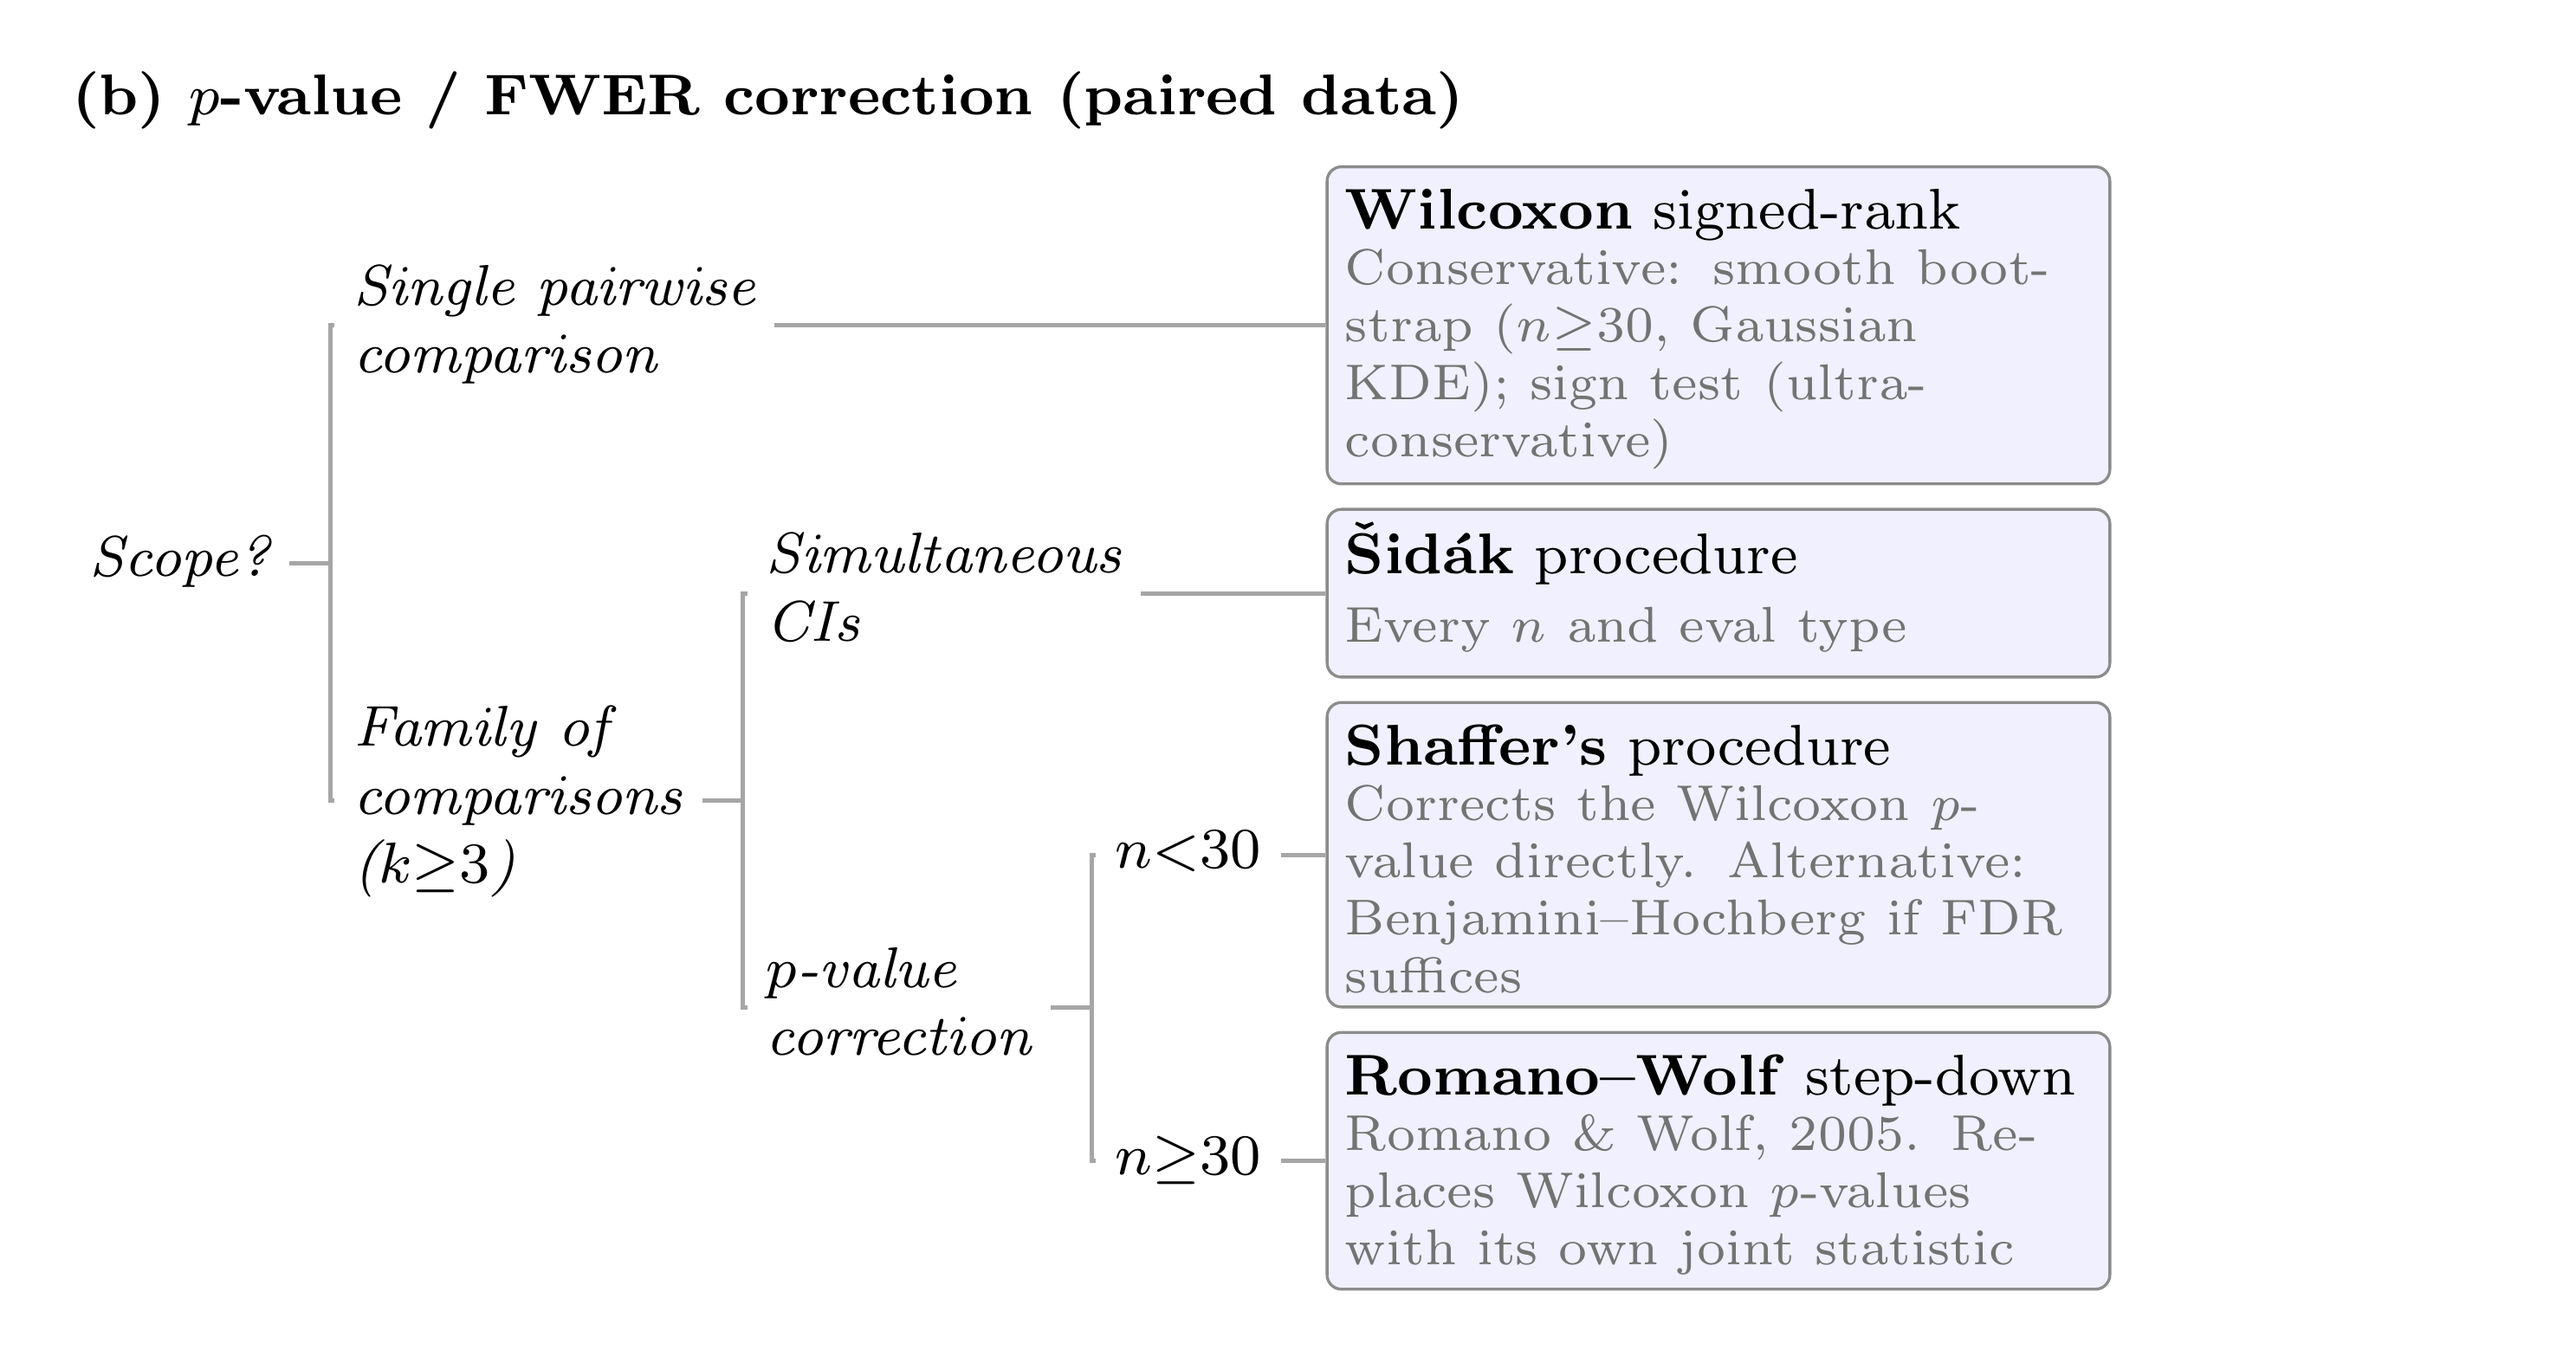
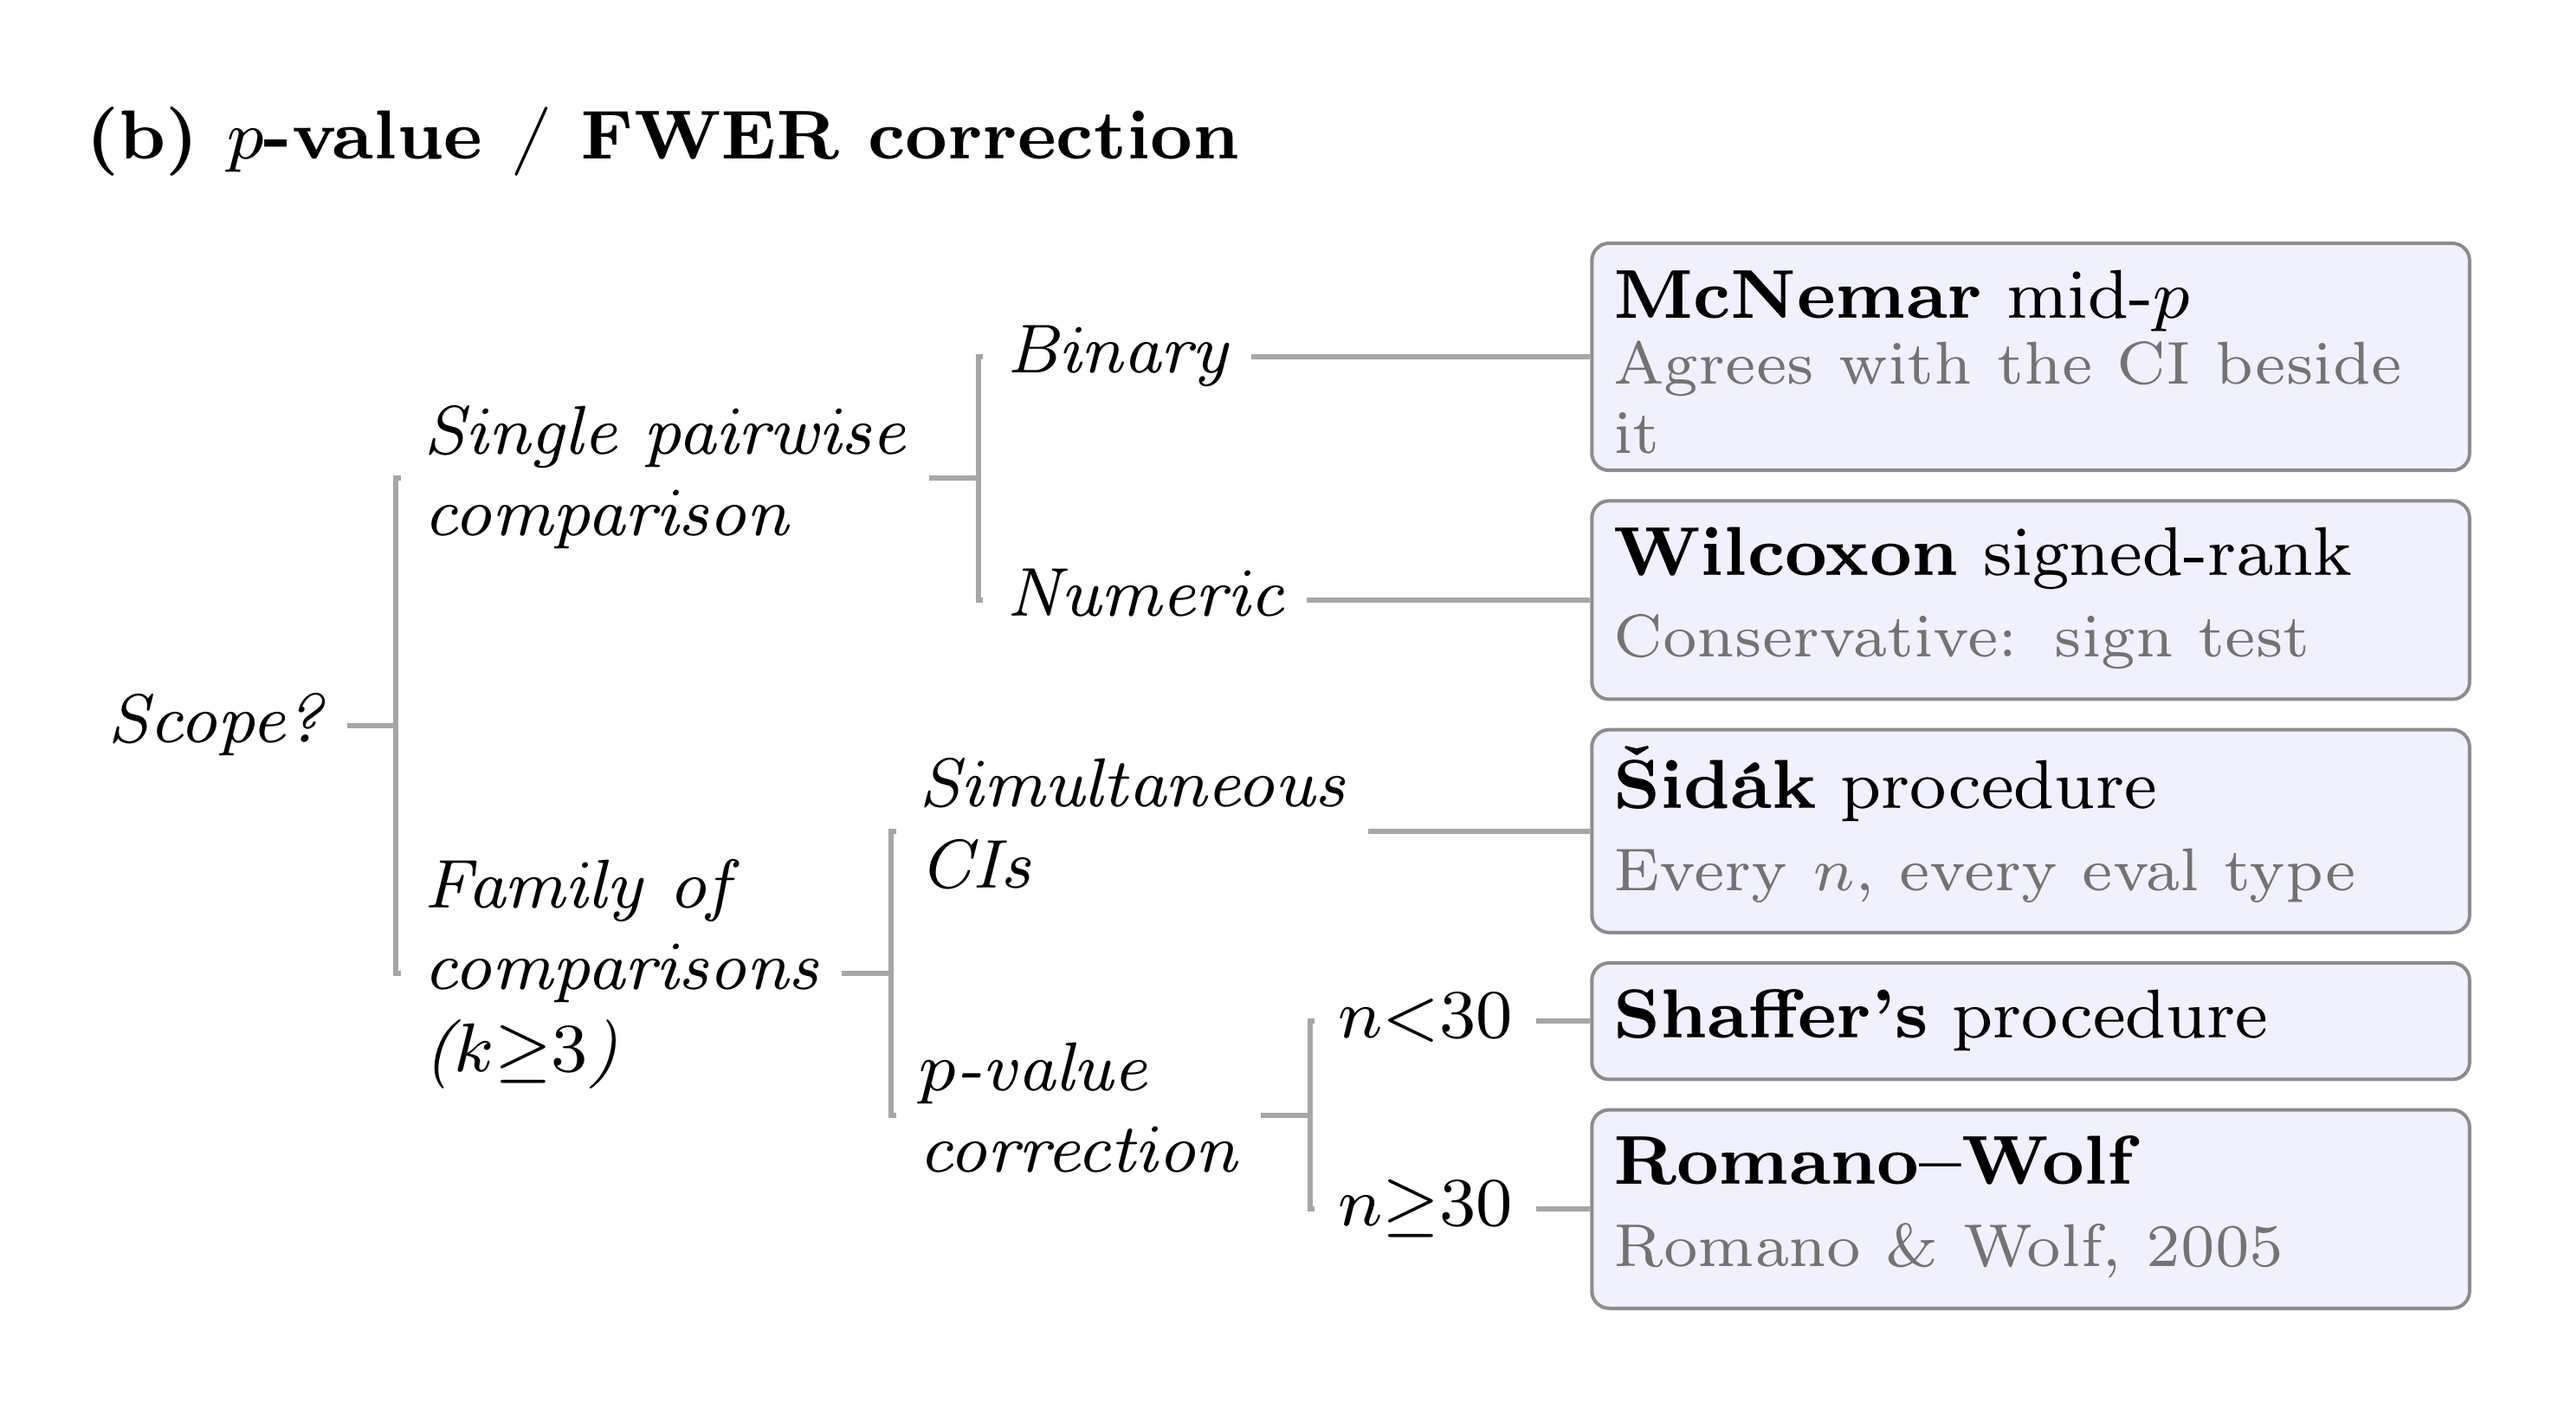
Match the README and website decision trees to the paper; bump to 0.4.0
- docs/decision-tree-{ci,pvalue}.png are re-rendered from the paper's own
  forest trees by the new docs/make_decision_trees.py, dropping the stale
  multi-run notes and alternatives the paper no longer lists.
- website/src/which-method.html carries the same leaves: McNemar mid-p for a
  single binary comparison, Wilcoxon (conservative: sign test) for numeric,
  and the paper's conservative-alternative notes and citations.
- Version 0.4.0: compare() now shows p-values and the omnibus test by
  default and refuses PPI data without shared labels.

diff --git a/website/src/which-method.html b/website/src/which-method.html
@@ -6,8 +6,8 @@
       These are <code>evalstats</code>' current default recommendations, chosen automatically under
       <code>method="auto"</code> based on your data's estimand, data type, and sample size. They summarize
       the results of an extensive Monte Carlo simulation study, validated against real LLM eval data.
-      Boxed methods are the default; gray notes give the multi-run variant and conservative alternatives.
-      Paired data is assumed throughout the p-value / FWER tree below.
+      Boxed methods are the default; gray notes give conservative alternatives. Both trees cover
+      single-run, paired data at N=15&ndash;100.
     </p>
 
     <h3>95% Confidence Interval</h3>
@@ -21,14 +21,13 @@
               <div class="dtree-condition">Binary (0 / 1)</div>
               <div class="dtree-leaf">
                 <span class="dtree-leaf-method">Wilson score interval</span>
-                <span class="dtree-leaf-note">Multi-run: Wilson flat</span>
               </div>
             </li>
             <li class="dtree-node">
-              <div class="dtree-condition">Numeric (continuous or Likert)</div>
+              <div class="dtree-condition">Numeric</div>
               <div class="dtree-leaf">
                 <span class="dtree-leaf-method">Logit-t interval</span>
-                <span class="dtree-leaf-note">Multi-run: on run means. Conservative: NIG (continuous), smooth bootstrap (Likert)</span>
+                <span class="dtree-leaf-note">Conservative: NIG, smooth bootstrap</span>
               </div>
             </li>
           </ul>
@@ -40,21 +39,20 @@
               <div class="dtree-condition">Binary (0 / 1)</div>
               <div class="dtree-leaf">
                 <span class="dtree-leaf-method">Bonett&ndash;Price adjusted Wald</span>
-                <span class="dtree-leaf-note">Multi-run: B&ndash;P shrunk</span>
+                <span class="dtree-leaf-note">Bonett &amp; Price, 2012</span>
               </div>
             </li>
             <li class="dtree-node">
               <div class="dtree-condition">Continuous</div>
               <div class="dtree-leaf">
                 <span class="dtree-leaf-method">Logit-t interval</span>
-                <span class="dtree-leaf-note">Multi-run: on run mean differences. Conservative: smooth bootstrap (Gaussian KDE)</span>
+                <span class="dtree-leaf-note">Conservative: smooth bootstrap</span>
               </div>
             </li>
             <li class="dtree-node">
               <div class="dtree-condition">Likert / discrete</div>
               <div class="dtree-leaf">
                 <span class="dtree-leaf-method">Bayesian NIG</span>
-                <span class="dtree-leaf-note">Multi-run: on run mean differences</span>
               </div>
             </li>
           </ul>
@@ -62,42 +60,53 @@
       </ul>
     </div>
 
-    <h3>p-value / FWER Correction (paired data)</h3>
+    <h3>p-value / FWER Correction</h3>
     <div class="dtree">
       <div class="dtree-root">How many comparisons are you running?</div>
       <ul class="dtree-branches">
         <li class="dtree-node">
           <div class="dtree-condition">Single pairwise comparison</div>
-          <div class="dtree-leaf">
-            <span class="dtree-leaf-method">Wilcoxon signed-rank test</span>
-            <span class="dtree-leaf-note">Conservative: smooth bootstrap (n&ge;30, Gaussian KDE); sign test (ultra-conservative)</span>
-          </div>
+          <ul class="dtree-branches">
+            <li class="dtree-node">
+              <div class="dtree-condition">Binary (0 / 1)</div>
+              <div class="dtree-leaf">
+                <span class="dtree-leaf-method">McNemar mid-p test</span>
+                <span class="dtree-leaf-note">Agrees with the CI beside it</span>
+              </div>
+            </li>
+            <li class="dtree-node">
+              <div class="dtree-condition">Numeric</div>
+              <div class="dtree-leaf">
+                <span class="dtree-leaf-method">Wilcoxon signed-rank test</span>
+                <span class="dtree-leaf-note">Conservative: sign test</span>
+              </div>
+            </li>
+          </ul>
         </li>
         <li class="dtree-node">
           <div class="dtree-condition">Family of comparisons (k&ge;3)</div>
           <ul class="dtree-branches">
             <li class="dtree-node">
-              <div class="dtree-condition">Need simultaneous CIs</div>
+              <div class="dtree-condition">Simultaneous CIs</div>
               <div class="dtree-leaf">
                 <span class="dtree-leaf-method">&Scaron;id&aacute;k procedure</span>
-                <span class="dtree-leaf-note">Every n and eval type</span>
+                <span class="dtree-leaf-note">Every n, every eval type</span>
               </div>
             </li>
             <li class="dtree-node">
-              <div class="dtree-condition">Need p-value correction</div>
+              <div class="dtree-condition">p-value correction</div>
               <ul class="dtree-branches">
                 <li class="dtree-node">
                   <div class="dtree-condition">n &lt; 30</div>
                   <div class="dtree-leaf">
                     <span class="dtree-leaf-method">Shaffer's procedure</span>
-                    <span class="dtree-leaf-note">Corrects the Wilcoxon p-value directly. Alternative: Benjamini&ndash;Hochberg if FDR suffices</span>
                   </div>
                 </li>
                 <li class="dtree-node">
                   <div class="dtree-condition">n &ge; 30</div>
                   <div class="dtree-leaf">
                     <span class="dtree-leaf-method">Romano&ndash;Wolf step-down</span>
-                    <span class="dtree-leaf-note">Replaces Wilcoxon p-values with its own joint statistic</span>
+                    <span class="dtree-leaf-note">Romano &amp; Wolf, 2005</span>
                   </div>
                 </li>
               </ul>

diff --git a/docs/make_decision_trees.py b/docs/make_decision_trees.py
@@ -1,0 +1,84 @@
+"""Render docs/decision-tree-{ci,pvalue}.png from the paper's decision-tree figure.
+
+The two forest trees are copied verbatim out of the paper source, so the README
+images match the paper. Needs pdflatex (with the forest package) and pdftoppm.
+
+    python docs/make_decision_trees.py path/to/sample-sigconf.tex
+"""
+
+import argparse
+import re
+import shutil
+import subprocess
+import tempfile
+from pathlib import Path
+
+# Citations become gray leaf notes, as there is no bibliography here.
+CITATIONS = {
+    r"~\cite{bonett2012adjusted}": r"\leafnote{Bonett \& Price, 2012}",
+    r"~\cite{romano2005exact}": r"\leafnote{Romano \& Wolf, 2005}",
+}
+
+# The paper's tree style, with leaves widened for Computer Modern, which runs
+# wider than the paper's font.
+PREAMBLE = r"""\documentclass[border=10pt]{standalone}
+\usepackage[T1]{fontenc}
+\usepackage{xcolor}
+\usepackage{forest}
+\newlength{\leafwidth}\setlength{\leafwidth}{3.4cm}
+\newcommand{\leafnote}[1]{\\{\scriptsize\textcolor{black!55}{\parbox{\leafwidth}{#1}}}}
+\forestset{
+  cmptree/.style={
+    for tree={grow'=east, parent anchor=east, child anchor=west, anchor=west,
+      align=left, font=\footnotesize, inner xsep=2.5pt, inner ysep=2pt,
+      l sep=2.2mm, s sep=1.1mm, edge={gray!70, semithick},
+      edge path={\noexpand\path[\forestoption{edge}]
+        (!u.parent anchor) -- +(2mm,0) |- (.child anchor)\forestoption{edge label};},
+    },
+    where n children=0{draw=black!45, rounded corners=2pt, fill=blue!6,
+      text width=\leafwidth, tier=rec}{font=\footnotesize\itshape},
+  }
+}
+\begin{document}
+"""
+
+
+def extract_trees(tex: str) -> list[tuple[str, str]]:
+    start = tex.index(r"{\footnotesize\textbf{(a) 95\% confidence interval}}")
+    figure = tex[start:tex.index(r"\label{fig:ci-decision-tree}")]
+    titles = re.findall(r"\{\\footnotesize\\textbf\{(.*?)\}\}\\\\\[3pt\]", figure)
+    bodies = re.findall(r"\\begin\{forest\} cmptree\n(.*?)\\end\{forest\}", figure, flags=re.S)
+    if len(titles) != 2 or len(bodies) != 2:
+        raise ValueError(f"expected two titled trees, found {len(titles)} titles and {len(bodies)} trees")
+    return list(zip(titles, bodies))
+
+
+def main() -> None:
+    parser = argparse.ArgumentParser(description=__doc__, formatter_class=argparse.RawDescriptionHelpFormatter)
+    parser.add_argument("paper", type=Path, help="the paper's main .tex file")
+    parser.add_argument("--out", type=Path, default=Path(__file__).parent)
+    parser.add_argument("--dpi", type=int, default=720)
+    args = parser.parse_args()
+
+    trees = extract_trees(args.paper.read_text())
+    with tempfile.TemporaryDirectory() as tmp:
+        for name, (title, body) in zip(["decision-tree-ci", "decision-tree-pvalue"], trees):
+            for cite, note in CITATIONS.items():
+                body = body.replace(cite, note)
+            if r"\cite" in body:
+                raise ValueError(f"{name}: a citation has no leaf note in CITATIONS")
+            doc = (PREAMBLE + "\\begin{tabular}{@{}l@{}}\n"
+                   f"{{\\footnotesize\\textbf{{{title}}}}}\\\\[6pt]\n"
+                   f"\\begin{{forest}} cmptree\n{body}\\end{{forest}}\n"
+                   "\\end{tabular}\n\\end{document}\n")
+            (Path(tmp) / f"{name}.tex").write_text(doc)
+            subprocess.run(["pdflatex", "-interaction=nonstopmode", "-halt-on-error", f"{name}.tex"],
+                           cwd=tmp, check=True, capture_output=True)
+            subprocess.run(["pdftoppm", "-r", str(args.dpi), "-png", "-singlefile", f"{name}.pdf", name],
+                           cwd=tmp, check=True)
+            shutil.copy(Path(tmp) / f"{name}.png", args.out / f"{name}.png")
+            print(f"wrote {args.out / f'{name}.png'}")
+
+
+if __name__ == "__main__":
+    main()

diff --git a/evalstats/__init__.py b/evalstats/__init__.py
@@ -49,7 +49,7 @@ from evalstats.quick import (
     DebiasedMeanCI,
 )
 
-__version__ = "0.3.0"
+__version__ = "0.4.0"
 
 __all__ = [
     # High-level spec API

diff --git a/README.md b/README.md
@@ -106,7 +106,7 @@ And LLMs are stochastic at temperature > 0: the "noise plot" visualizes (in)stab
 
 ## Recommended Methods
 
-`evalstats.compare()` defaults to `method="auto"`, which picks a well-calibrated statistical method based on your data's estimand, data type, and sample size. These defaults come from an extensive Monte Carlo simulation study across eval data types, sample sizes, and comparison setups, cross-checked against real LLM eval data, summarized in the two decision trees below. **Boxed methods are the default; gray notes give the multi-run variant and conservative alternatives.**
+`evalstats.compare()` defaults to `method="auto"`, which picks a well-calibrated statistical method based on your data's estimand, data type, and sample size. These defaults come from an extensive Monte Carlo simulation study across eval data types, sample sizes, and comparison setups, cross-checked against real LLM eval data, summarized in the two decision trees below. **Boxed methods are the default; gray notes give conservative alternatives.**
 
 ![Decision tree for selecting a 95% confidence interval method](docs/decision-tree-ci.png)
 
